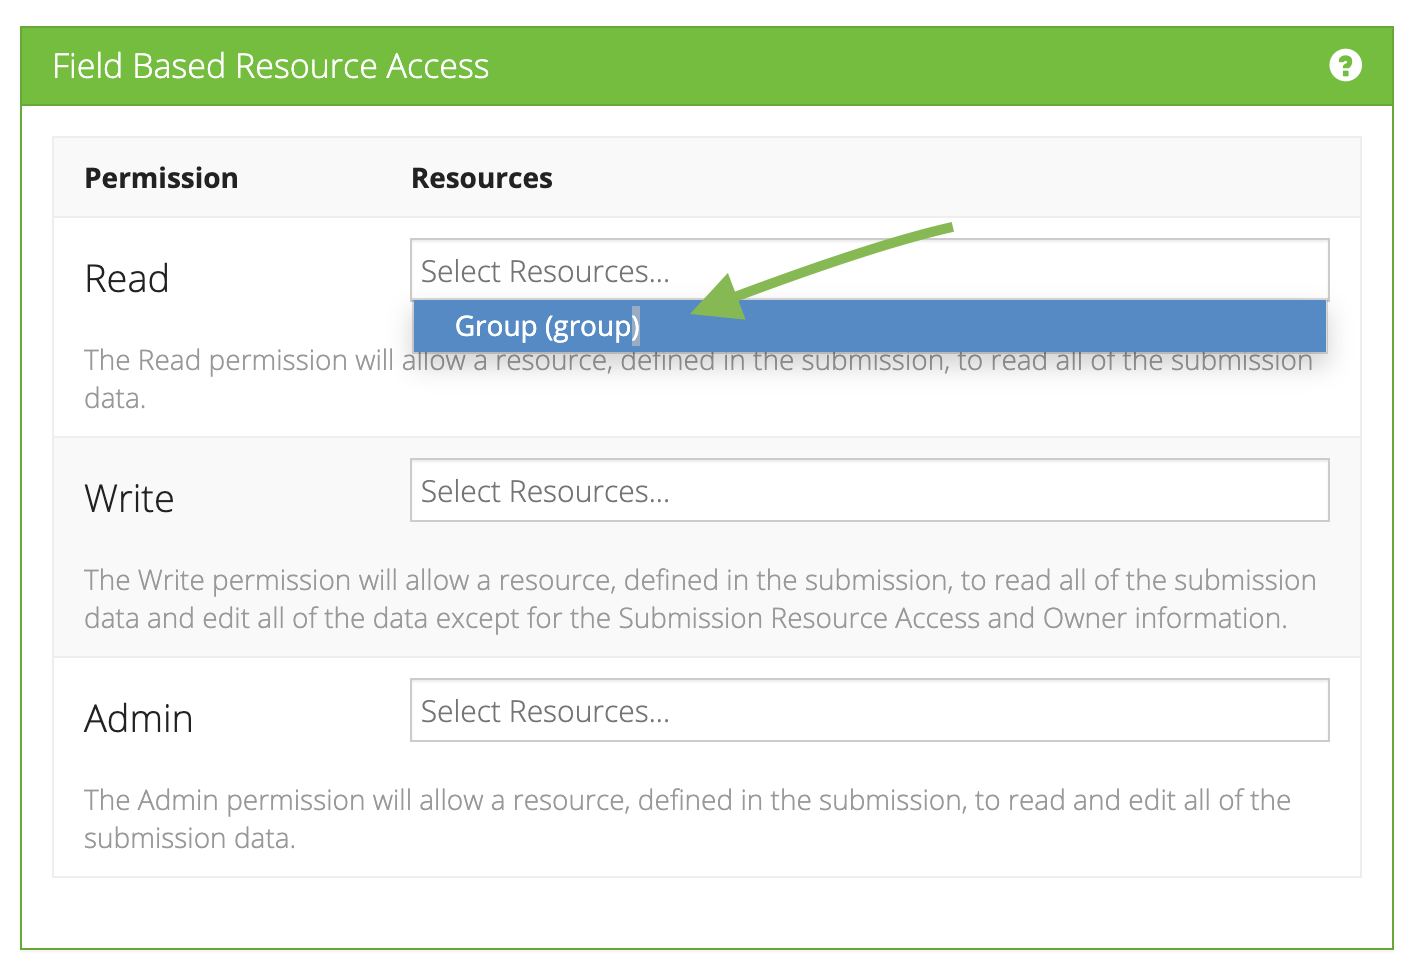
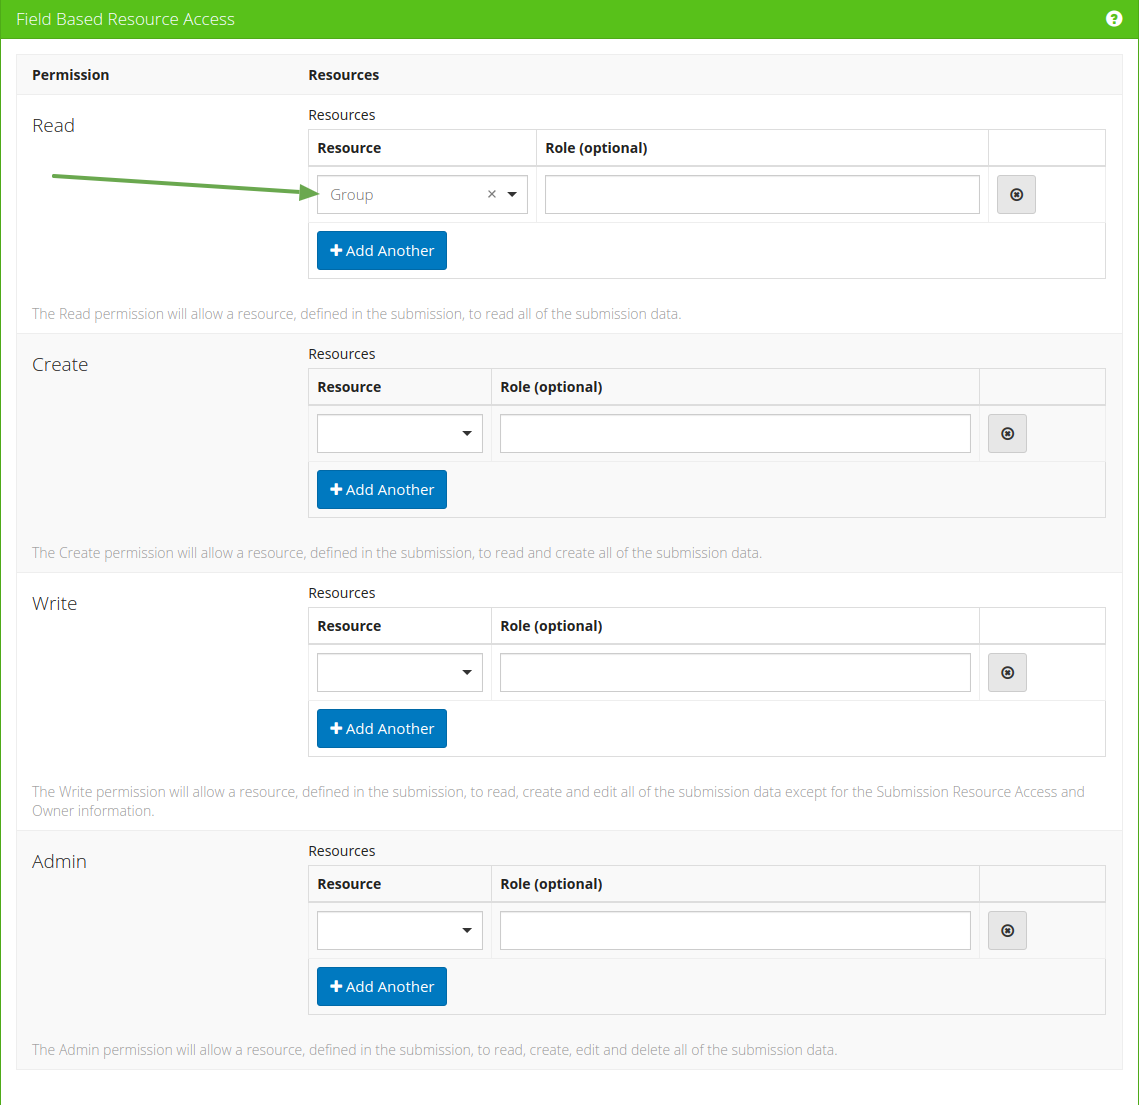
Added new documentation that corresponds to new UI and group permission levels functionality

diff --git a/_paragraphs/userguide/groups/steps.md b/_paragraphs/userguide/groups/steps.md
@@ -37,3 +37,46 @@ weight: 30
    - `Note: when you change Field Based Resource Acccess setting, change only applies to new submissions you'll create after the change. Submissions created before the change would have level of acccess which was current on the time of their creation. For example: you didn't set up Filed Based Resource Access, created several submissions and then selected Group Resource on 'Read' level. Group users won't be able to see those several old submissions even if the group matches`
    
    ![](/assets/img/userguide/groups/field_based_resource_access.png){: .img-fluid .img-thumbnail }
+
+#### Steps for Group, User, GroupRole and GroupUserRole group access configuration
+1. Create **User resource** (or use existing default User resource)
+   - Components
+     - Email (Email component)
+     - Password (Password component)
+
+2. Create **Group resource**
+   - Components
+     - Name (Text component)
+
+3. Create **GroupRole resource**
+   - Components
+      - Name (Text Component)
+
+4. Create **GroupUserRole resource**
+   - Components
+     - Group (single Select / Resource component of Group resource submissions)
+     - User (single Select / Resource component of User resource submissions)
+     - GroupRole (single Select / Resource component of GroupRole resource submissions)
+     - `Note: Group, GroupRole and User components in GroupUserRole resource can only be Single Selects. If you need one user to be assigned to multiple groups, you'll need to create multiple submissions of GroupUserRole resource`
+
+5. Set Value Property in **GroupRole select component**
+   - Open Data tab in Edit menu of 'GroupRole' select component
+   - Select the value that corresponds to the Text Component label value of GroupRole resource text component (in this case it is 'Name').
+   ![](/assets/img/userguide/groups/group_role_value_property.png){: .img-fluid .img-thumbnail }
+
+6. Set up **Group assignment action** for the GroupUserRole resource
+   - Select 'User' select as User setting, 'Group' select as Group setting and 'GroupRole' select as Role setting
+   ![](/assets/img/userguide/groups/group_assignment_action_with_roles.png){: .img-fluid .img-thumbnail }
+
+7. Create a **form with group roles access permissions**
+   - Components
+     - Group (single or multi Select / Resource component of Group resource submissions)
+     - any other component you need
+   - `Note: Group select on form with group access can be either single Select or multi Select depending on your needs - both should work`
+
+8. Set up **Field Based Resource Access** for this form:
+   - Select 'Group' component in one of the Read / Create / Write / Admin selects depending on which level of access you want to grant to a User. Read more about Field Based Resource Access levels in [Roles and Permissions section](../roles-and-permissions/#submissionpermissions).
+   - Type in the role that you want to grant to a User inside the 'Role(optional) field'.
+   - `Note: the Role that you grant in 'Role(optional) field' should match the role that you grant to the user via GroupUserRole resource submission`
+   ![](/assets/img/userguide/groups/field_based_resource_access_with_role.png){: .img-fluid .img-thumbnail }
+   - `Note: when you change Field Based Resource Acccess setting, change only applies to new submissions you'll create after the change. Submissions created before the change would have level of acccess which was current on the time of their creation. For example: you didn't set up Filed Based Resource Access, created several submissions and then selected Group Resource on 'Read' level. Group users won't be able to see those several old submissions even if the group matches`
